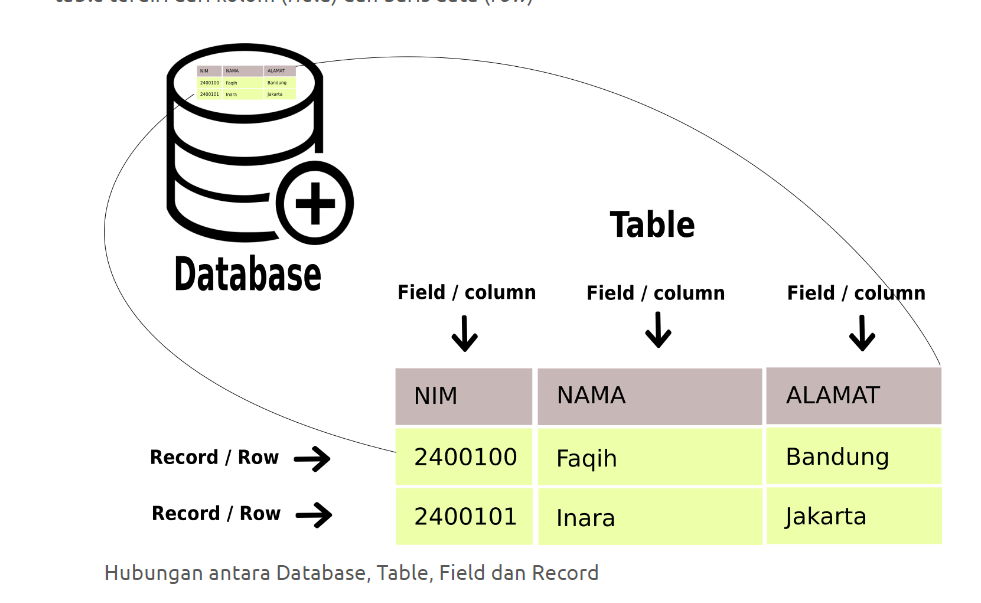
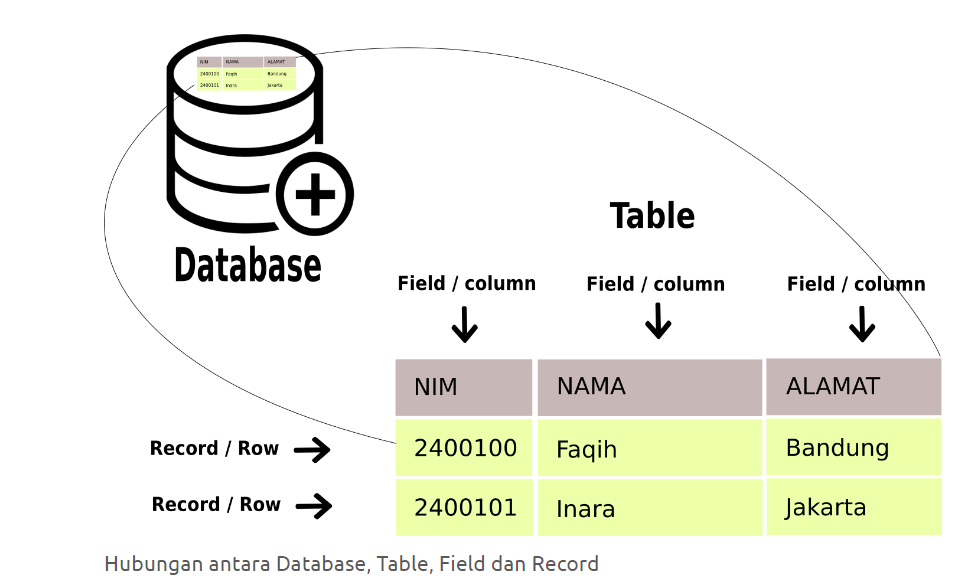
fix gambar

diff --git a/belajar-sql/dasar_sql.md b/belajar-sql/dasar_sql.md
@@ -7,9 +7,12 @@
 - Database (Basis Data) merupakan kumpulan data yang tersimpan dan terorganisir, sehingga mudah untuk diakses, dikelola, dan diperbarui
 - DBMS (Database Management System) adalah perangkat lunak yang dirancang untuk mengelola, menyimpan, mengakses, dan memanipulasi data dalam database
 - pada pembahasan kali ini kita akan menggunakan MySQL sebagai DBMS
-- MySQL adalah salah satu sistem manajemen basis data relasional (RDBMS) yang paling populer. RDBMS adalah jenis database yang menggunakan tabel untuk menyimpan data dan mengorganisasikannya berdasarkan hubungan yang terbentuk antara tabel-tabel tersebut.
 - MySQL pertama kali dibuat oleh Michael Widenius dan David Axmark pada tahun 1994, dan dirilis ke publik pada tahun 1995, dengan tujuan untuk membuat sebuah sistem manajemen basis data yang ringan, cepat, dan dapat diakses secara mudah.
 - untuk menggunakan MySQL, kita menggunakan bahasa SQL (Structure Query Language)
+- MySQL adalah salah satu sistem manajemen basis data relasional (RDBMS) yang paling populer. RDBMS adalah jenis database yang menggunakan tabel untuk menyimpan data dan mengorganisasikannya berdasarkan hubungan yang terbentuk antara tabel-tabel tersebut.
+- berikut merupakan penjelasan dari table, record dan row pada database MySQL:
+  
+![gambar 3](img/gambar3.png)
 
 Secara garis besar, dalam database sql terdapat dua jenis perintah :  
 1. DDL (Data Definition Language)  
@@ -74,6 +77,16 @@ BOOLEAN (TINYINT(1))
 Pastikan mysql sudah dijalankan (start)
 
 masuk ke database melalui command prompt, contoh path `E:\xampp\mysql\bin`
+
+untuk masuk ke MySQL, ketikkan perintah
+
+```bash
+mysql -u root -p
+```
+
+jika meminta password tekan enter
+
+![gambar 4](img/gambar4.png)
 
 Melihat database tersedia
 ```sql
